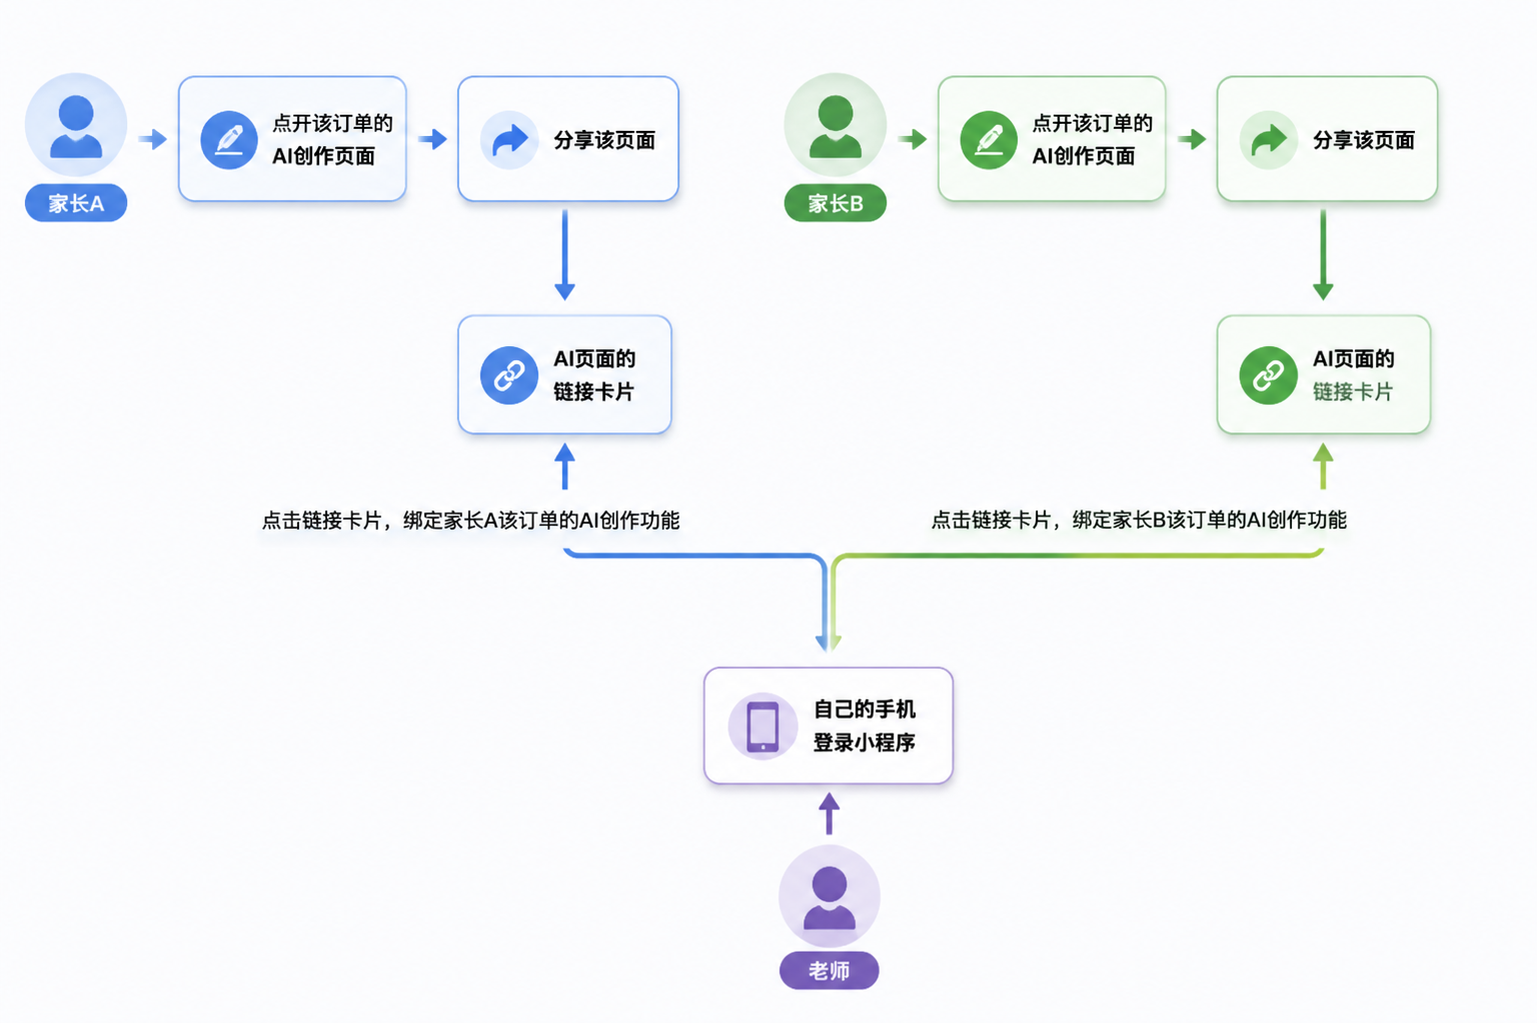
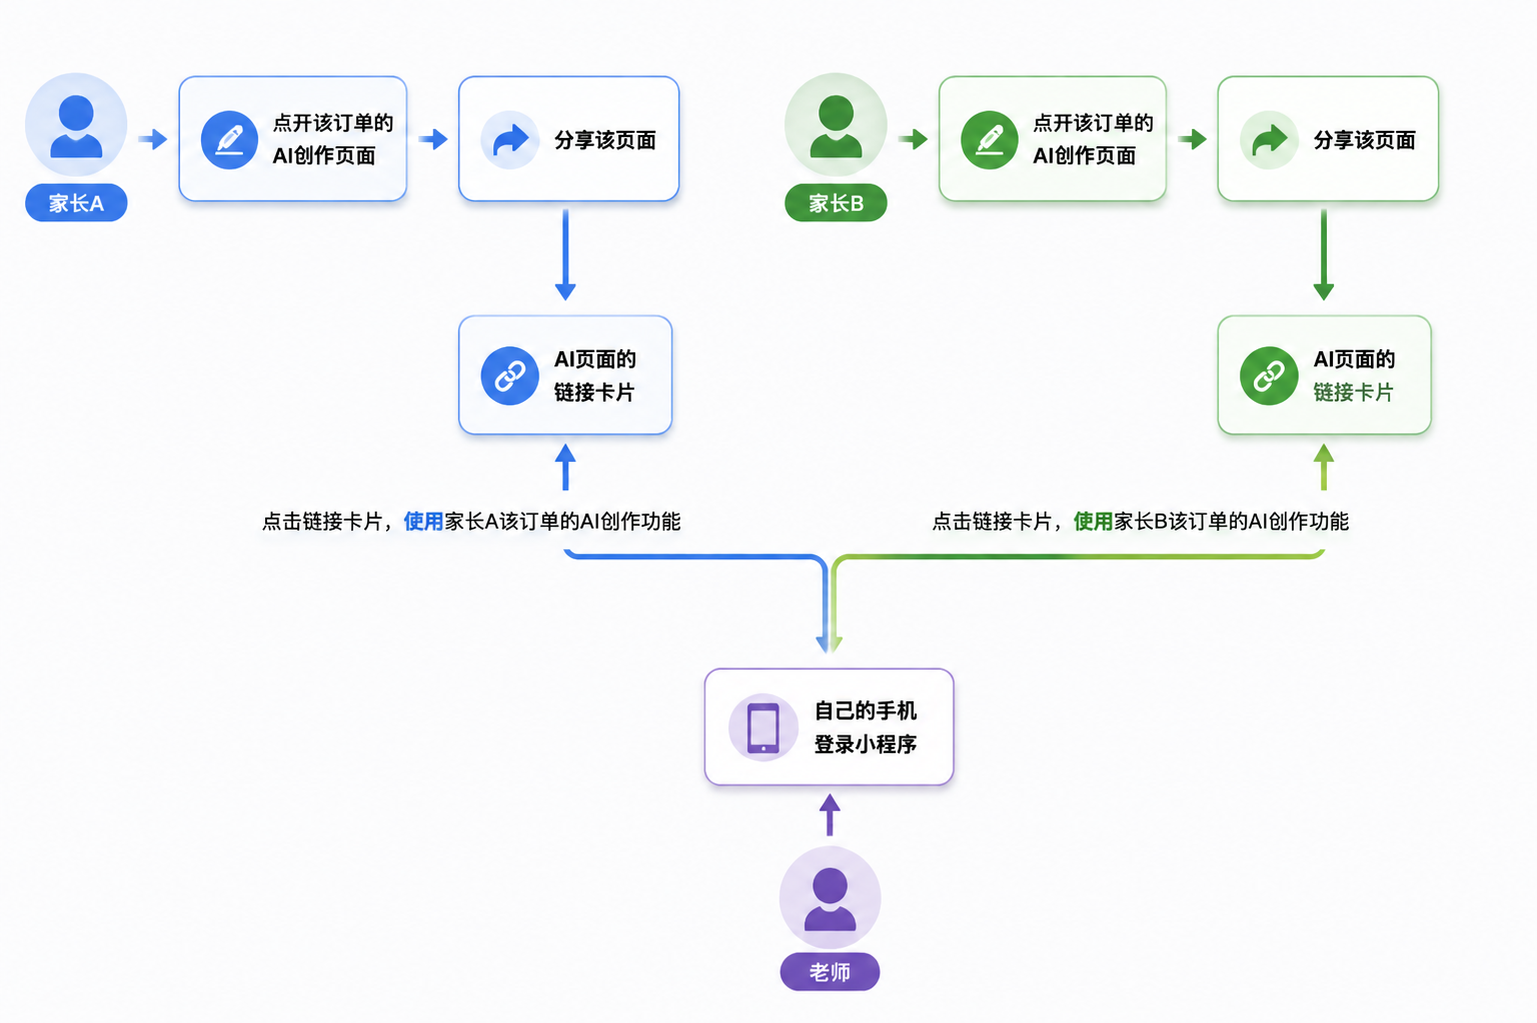
modify

diff --git a/index.html b/index.html
@@ -256,23 +256,11 @@
         </div>
         <div class="list">
             <div class="item" style="flex-direction:column;align-items:stretch;gap:0;padding:0;">
-                <div style="padding:14px 18px 8px;font-size:15px;font-weight:500;color:var(--ink);">登录优化</div>
+                <div style="padding:14px 18px 8px;font-size:15px;font-weight:500;color:var(--ink);">AI创作分享</div>
                 <div style="border-top:1px solid var(--border);padding:6px 6px;">
-                    <a class="item" href="登录.html" style="border-radius:8px;padding:10px 14px;margin-bottom:4px;">
+                    <a class="item" href="AI创作_v3.html" style="border-radius:8px;padding:10px 14px;">
                         <span style="width:6px;height:6px;border-radius:50%;background:var(--accent);flex-shrink:0;"></span>
-                        <span class="it-label">登录页优化</span>
-                        <span class="it-tag gray">待开发</span>
-                        <span class="it-arrow">›</span>
-                    </a>
-                    <a class="item" href="个人资料.html" style="border-radius:8px;padding:10px 14px;margin-bottom:4px;">
-                        <span style="width:6px;height:6px;border-radius:50%;background:var(--accent);flex-shrink:0;"></span>
-                        <span class="it-label">个人资料</span>
-                        <span class="it-tag gray">待开发</span>
-                        <span class="it-arrow">›</span>
-                    </a>
-                    <a class="item" href="密码管理.html" style="border-radius:8px;padding:10px 14px;">
-                        <span style="width:6px;height:6px;border-radius:50%;background:var(--accent);flex-shrink:0;"></span>
-                        <span class="it-label">密码管理</span>
+                        <span class="it-label">AI创作分享</span>
                         <span class="it-tag gray">待开发</span>
                         <span class="it-arrow">›</span>
                     </a>
